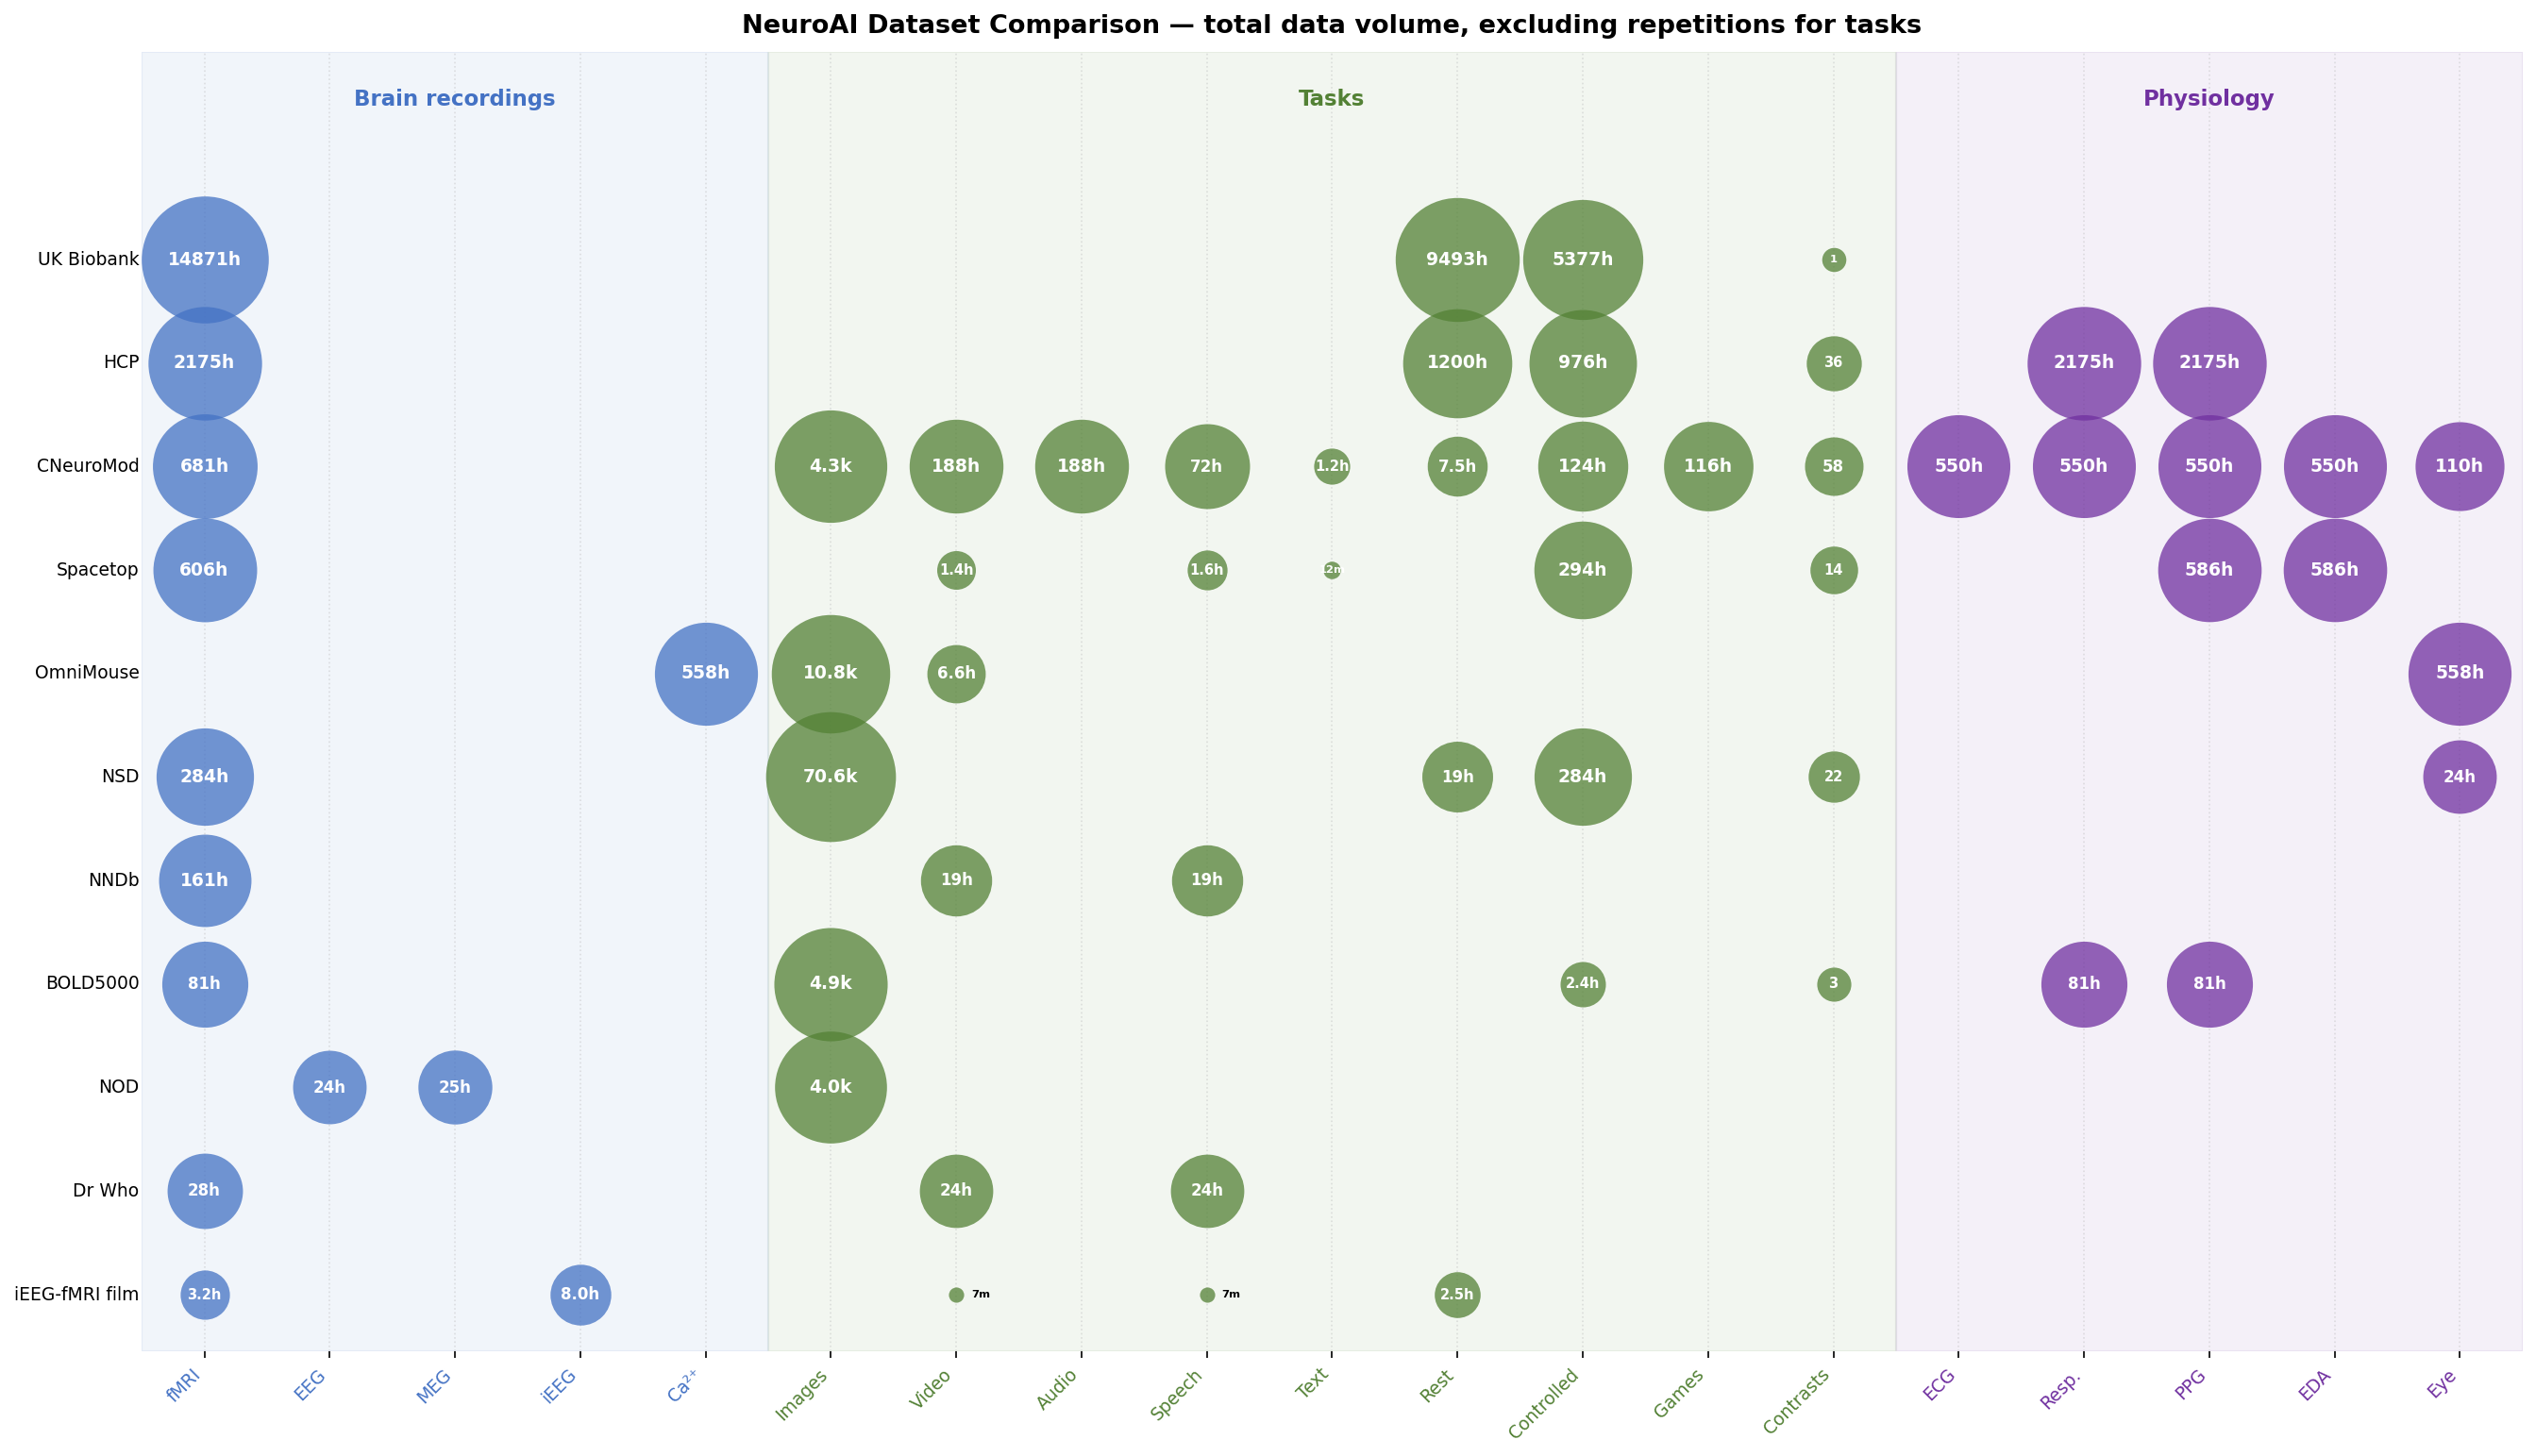
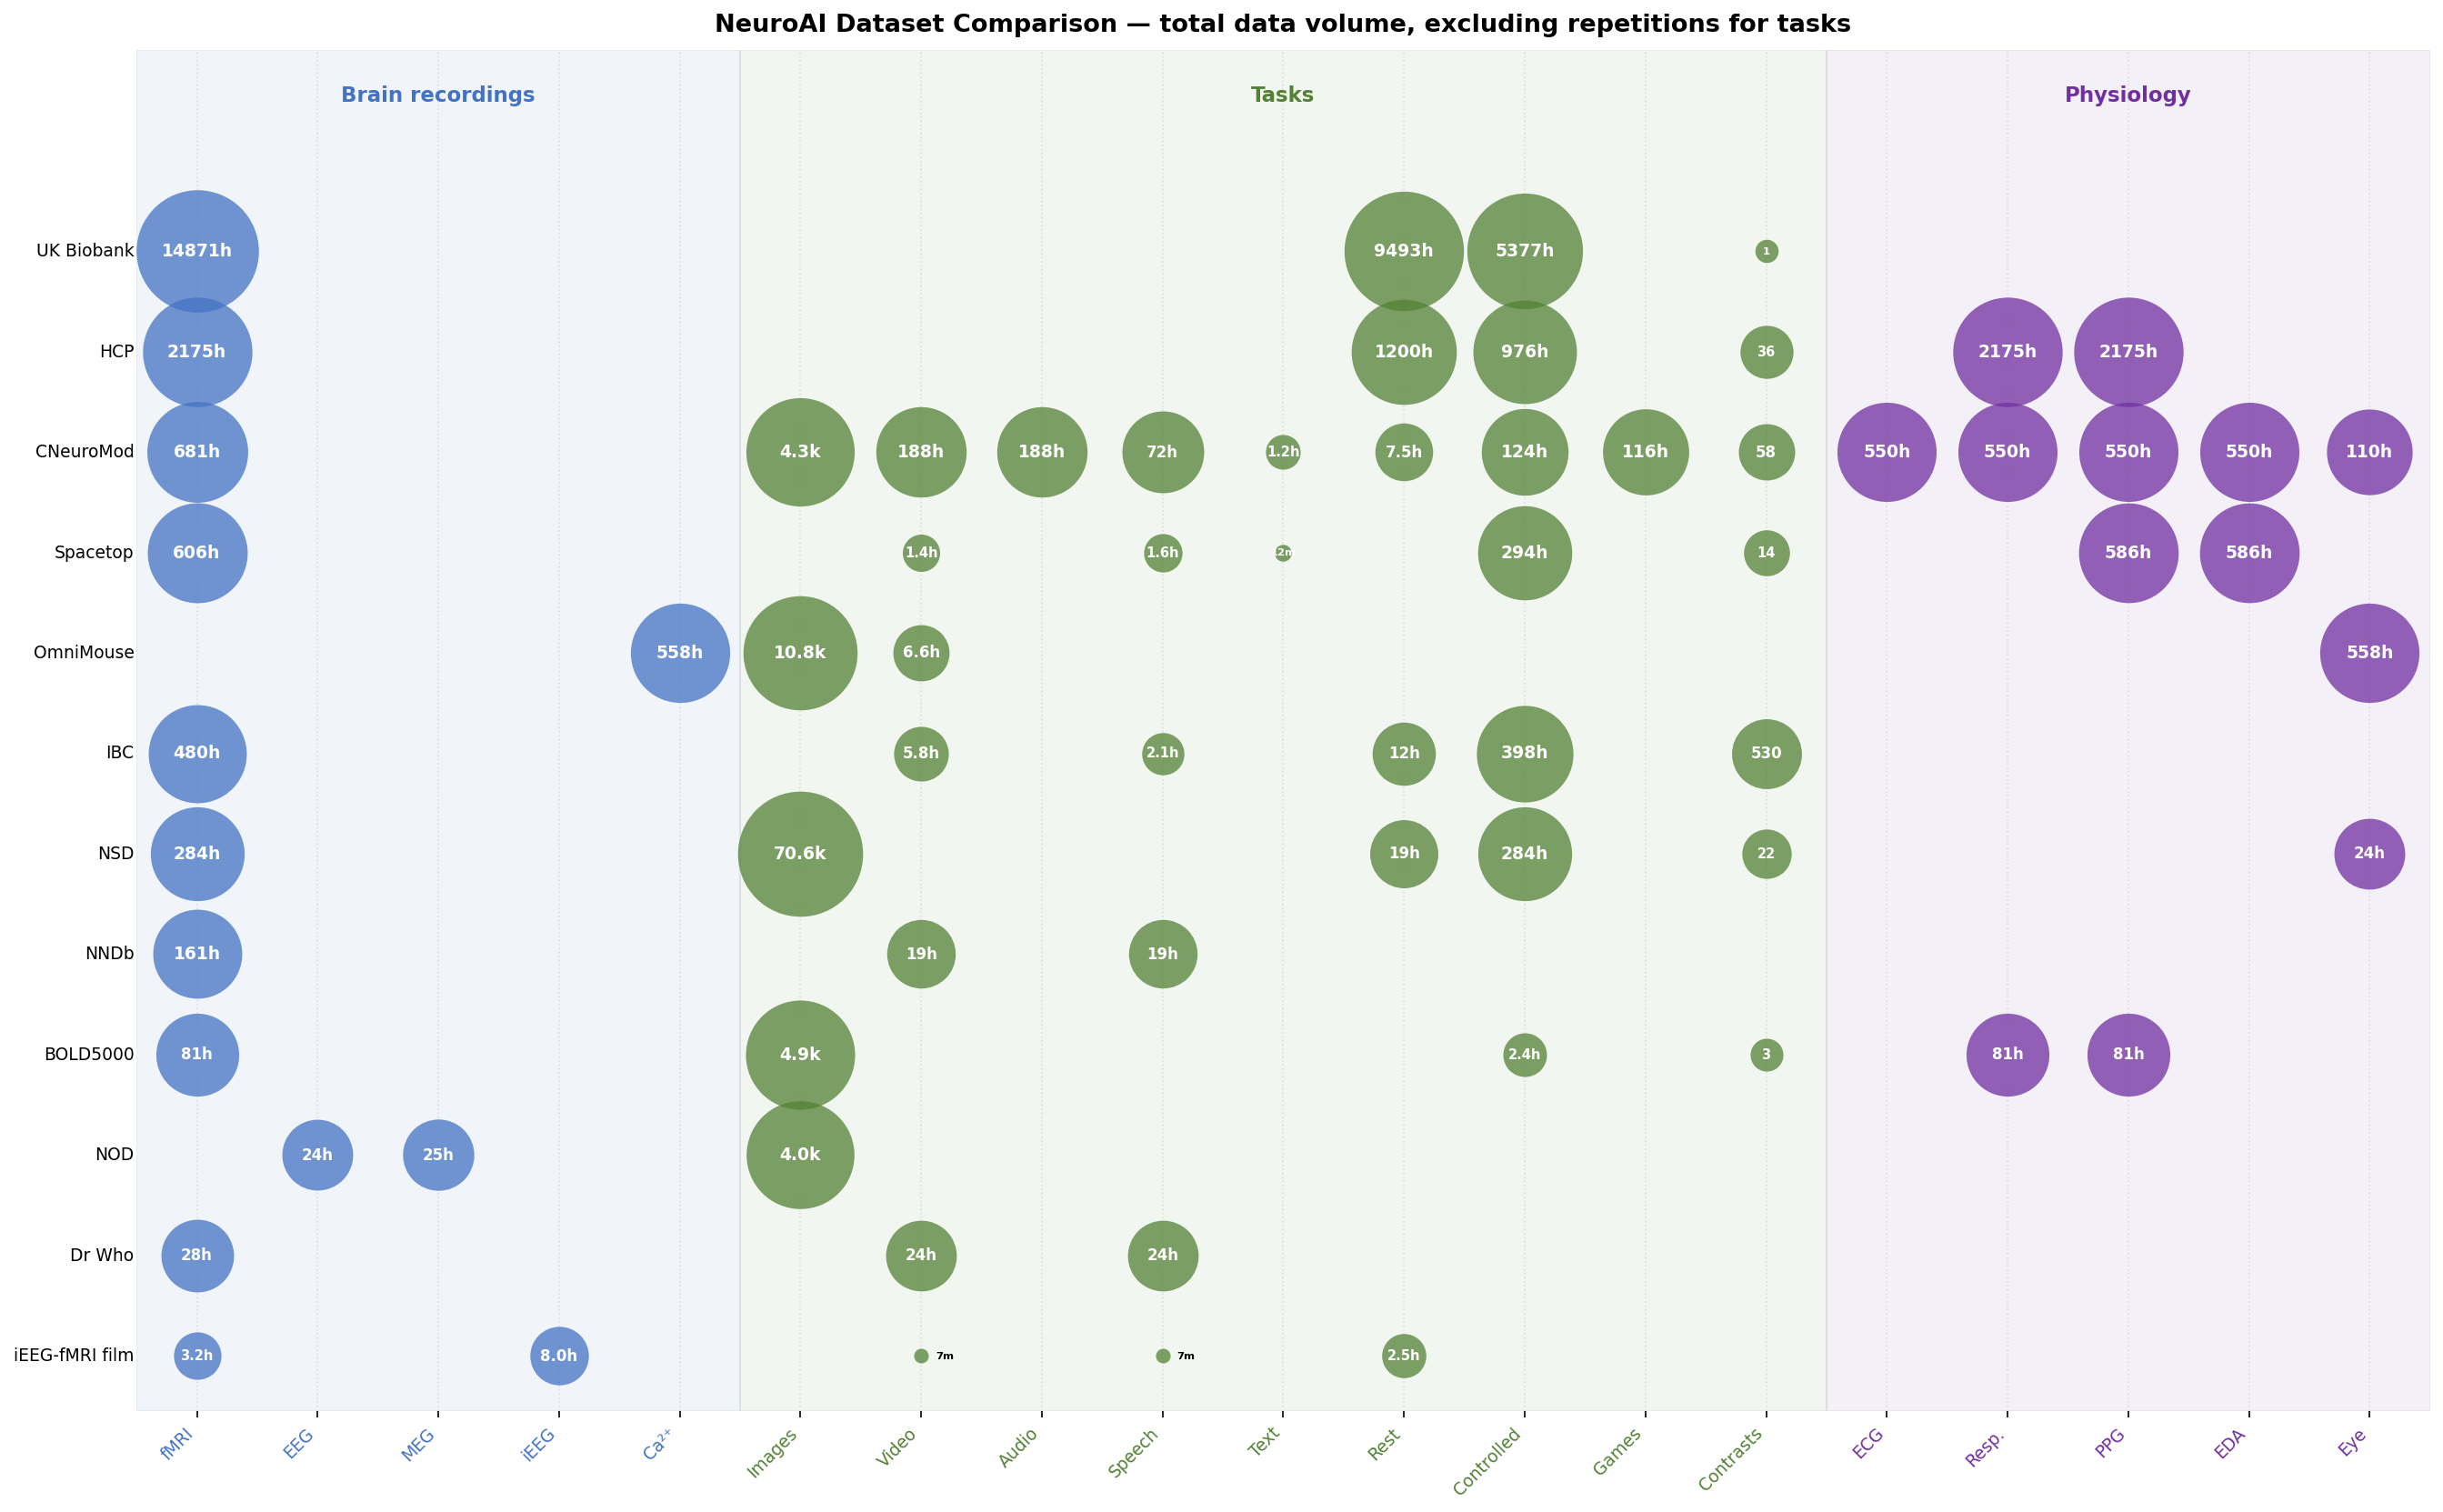
Add Individual Brain Charting (IBC) dataset entry
12 subjects, ~40 h/subject task fMRI across 5 releases; 530 contrasts from 67
tasks. Naturalistic content (Raiders, Clips, Bang, PainMovie) broken out into
video and speech_listening fields; controlled hours computed as remainder.

diff --git a/source_data/ibc.md b/source_data/ibc.md
@@ -1,0 +1,163 @@
+# Individual Brain Charting (IBC) — Data Provenance
+
+Primary reference: Ponce et al. (2026), "Individual Brain Charting: fifth release of high-resolution fMRI data for cognitive mapping," *Scientific Data* 13, 593. https://doi.org/10.1038/s41597-026-06869-1
+
+This sidecar covers the cumulative IBC dataset as of v4.0 (fifth release). Earlier releases are documented in:
+- 1st release: Pinho et al. (2018), *Scientific Data* 5, 180105. https://doi.org/10.1038/sdata.2018.105
+- 2nd release: Pinho et al. (2020), *Scientific Data* 7(1). https://doi.org/10.1038/s41597-020-00670-4
+- 3rd release: Pinho et al. (2024), *Scientific Data* 11, 590. https://doi.org/10.1038/s41597-024-03390-1
+- 4th release: deposited on EBRAINS without a standalone paper as of the 5th release
+
+---
+
+## subjects_n: 12
+
+> "The present release of the IBC dataset consists of fMRI data from twelve individuals (two females), acquired between October 2019 and November 2022." (Methods > Participants, p. 2)
+
+The original cohort comprised thirteen participants (sub-01 to sub-15, excluding sub-03 and sub-10 which were never assigned). Sub-02 withdrew after the first release; sub-01, sub-07, and sub-13 completed only subsets of the fifth-release tasks. The active participant count across all five releases is 12.
+
+---
+
+## neuroimaging.fmri
+
+### total_h: 480.0 | per_subject_h: 40.0
+
+> "extending the 1.5mm-resolution task-fMRI dataset for eleven participants to complete **up to 40 hours** of fMRI data per participant, with a target of 50 hours in the final release." (Abstract, p. 1)
+
+> "the IBC project has incorporated 67 tasks, encompassing over 340 unique conditions and 530 independent contrasts, resulting in **approximately 40 hours of fMRI data per participant**." (Data Availability, p. 16)
+
+**Computation:** 40 h × 12 subjects = 480 h total.
+
+**Caveat:** "Up to 40 hours" is the maximum; subjects with partial participation (sub-01, sub-07, sub-13, sub-02) have fewer hours. The exact per-subject mean is not reported in the 5th release paper. The 480 h total figure is therefore an upper bound; the true total is likely slightly lower.
+
+All BOLD fMRI data were acquired on a Siemens 3T Magnetom Prisma with a 64-channel head-neck coil at 1.5 mm isotropic resolution using a Multiband GE-EPI sequence (16-fold acceleration).
+
+> "The fMRI data were acquired using an MRI scanner Siemens 3T Magnetom Prisma along with a Siemens Head/Neck 64-channel coil." (MRI Equipment, p. 3)
+
+DWI (diffusion-weighted imaging) data are also available on EBRAINS but are not captured in the schema, which tracks BOLD fMRI only.
+
+---
+
+## tasks.resting_state
+
+### total_h: 12.0 | per_subject_h: 1.0
+
+From the IBC online documentation (https://individual-brain-charting.github.io/docs/mri_acquisitions.html):
+- Resting-state BOLD: TR = 760 ms, 1,120 repetitions → 851 s ≈ 14.2 min per run.
+- Resting state was collected as approximately 2 runs in dedicated sessions.
+
+The IBC documentation lists resting state as "approximately 1 hour total per subject" across all sessions. With 12 subjects: 12 h total.
+
+**Caveat:** The exact number of resting-state sessions per subject across all five releases is not specified in the 5th release paper. The value of 1 h per subject is taken from the IBC online documentation and may underestimate the true total if resting state was collected in multiple releases.
+
+---
+
+## tasks.video
+
+### total_unique: 5.83 | per_subject_unique: 5.83 | total_with_repetition: 69.96 | per_subject_with_repetition: 5.83
+
+All movie/video content is unique across runs (no within-subject repetitions) and identical across subjects (total_unique = per_subject_unique). total_with_repetition = 5.83 h × 12 subjects = 69.96 h.
+
+Four naturalistic video tasks are present across the five IBC releases (Table 5, p. 7):
+
+### Raiders (from 3rd release)
+> "Clips, WedgeClock, WedgeAnti, Ring, Raiders" (Table 5, Third release, p. 7)
+
+The Raiders task consists of 10 contiguous chapters of the 1981 film *Raiders of the Lost Ark* (2009 French-dubbed DVD edition). Chapter onset times from the IBC GitHub protocol README (https://github.com/individual-brain-charting/public_protocols/blob/master/raiders/protocol/README.md):
+
+```
+Chapter 1 - 00:00 | Chapter 2 - 12:29 | Chapter 3 - 22:22 | Chapter 4 - 32:50
+Chapter 5 - 45:27 | Chapter 6 - 57:00 | Chapter 7 - 01:08:32 | Chapter 8 - 01:20:11
+Chapter 9 - 01:31:57 | Chapter 10 - 01:41:19
+```
+
+The film's total runtime is approximately 115 min; Chapter 10 ends at ~115 min (duration ~13.7 min). **Total: ≈ 115 min = 1.92 h per subject.**
+
+### Clips (from 3rd release)
+> "Clips, WedgeClock, WedgeAnti, Ring, Raiders" (Table 5, Third release, p. 7)
+
+The Clips task was adapted from the Gallant Lab (UCB, 2012). Each run consists of 9,750 image frames presented at 15 fps → 650 s = 10.83 min per run (computed from protocol scripts at https://github.com/individual-brain-charting/public_protocols/blob/master/clips/protocol/showmovie.py, default `show_hz = 15`; index files contain 9,750 lines each).
+
+From the IBC online documentation: 12 training runs + 9 validation runs = 21 runs total.
+**Total: 21 runs × 10.83 min = 227.5 min ≈ 3.79 h per subject.**
+
+**Important:** The Clips task is a **silent** (audio-free) visual presentation. The protocol (showmovie.py) displays image frames only with no audio output. Therefore Clips is counted under `video` but NOT under `speech_listening`.
+
+**Caveat:** The website value of "10.5 min per run" differs slightly from the calculated value of 10.83 min. The run count of 21 (12 training + 9 validation) is from the IBC website documentation; the protocol README examples suggest a slightly different structure. The 3.79 h estimate may carry ±10% uncertainty.
+
+### Bang (from 2nd release)
+> "PreferenceFood, PreferencePaintings, PreferenceFaces, PreferenceHouses, MTTWE, MTTNS, HcpMotor, HcpLanguage, HcpRelational, EmotionalPain, PainMovie, Self, **Bang**" (Table 5, Second release, p. 7)
+
+From the IBC documentation: "edited version of the episode 'Bang! You're Dead' from the TV series 'Alfred Hitchcock Presents'." Duration: **7 min 55 sec = 0.13 h per subject.** This is a naturalistic movie with dialogue (speech present).
+
+### PainMovie (from 2nd release)
+> "EmotionalPain, **PainMovie**, Self, Bang" (Table 5, Second release, p. 7)
+
+From the IBC documentation: the Pixar short film "Partly Cloudy." Duration: **~6 min ≈ 0.10 h per subject.** This animated film contains some dialogue (speech present).
+
+**Summary of video durations (per subject):**
+- Raiders: 1.92 h
+- Clips: 3.79 h (silent)
+- Bang: 0.13 h
+- PainMovie: 0.10 h
+- **Total: 5.94 h → rounded to 5.83 h in YAML (using IBC website's 10.5 min/run for Clips → 3.68 h; total = 1.92 + 3.68 + 0.13 + 0.10 = 5.83 h)**
+
+---
+
+## tasks.speech_listening
+
+### total_unique: 2.15 | per_subject_unique: 2.15 | total_with_repetition: 25.8 | per_subject_with_repetition: 2.15
+
+Speech is present in three of the four naturalistic video tasks:
+- Raiders: 1.92 h (full movie with extensive French-dubbed dialogue)
+- Bang: 0.13 h (TV episode with dialogue)
+- PainMovie: 0.10 h (Pixar short with some dialogue)
+- Clips: excluded (silent visual-only stimuli)
+
+**Total unique speech content = 1.92 + 0.13 + 0.10 = 2.15 h per subject.** Since all subjects watch the same films, total_unique = per_subject_unique = 2.15 h. With 12 subjects: total_with_repetition = 25.8 h.
+
+**Caveat:** The 4th release includes tasks named "Lec1" and "Lec2" (Table 5, p. 7), which may represent naturalistic lecture audio (passive listening to academic lectures, a paradigm used in several cognitive neuroscience studies). If so, they would add additional speech_listening hours. This could not be confirmed from available documentation; the IBC protocols repository does not include a separate directory for Lec1/Lec2, suggesting they may be part of another battery. **These potential additional hours are NOT included here and should be verified against the 4th release data/paper.**
+
+---
+
+## tasks.controlled
+
+### total_h: 398.0 | per_subject_h: 33.2
+
+Computed as a remainder:
+- Total fMRI per subject: 40.0 h
+- Resting state: −1.0 h
+- Naturalistic video: −5.83 h
+- **Controlled: 40.0 − 1.0 − 5.83 = 33.17 h ≈ 33.2 h per subject; 33.2 × 12 = 398 h total.**
+
+The IBC dataset includes 67 tasks across five releases (Table 5, p. 7), the vast majority being controlled experimental paradigms with fixed trial or block structures. These include:
+- ARCHI battery (Standard, Spatial, Social, Emotional)
+- HCP battery (Emotion, Gambling, Motor, Language, Relational, Social, WM)
+- CamCAN battery (EmoMem, EmoReco, StopNogo, Catell, FingerTapping, VSTMC)
+- FBIRN battery (BreathHolding, Checkerboard, FingerTap, ItemRecognition)
+- 5th-release tasks: BiologicalMotion, MathLanguage, SpatialNavigation, EmoMem, EmoReco, Catell, FingerTapping, VSTMC, StopNogo, NARPS, FaceBody, Scene, VisualSearch
+- Plus retinotopic mapping (WedgeClock, WedgeAnti, Ring), preference tasks, mental time travel, discourse tasks, and others (see Table 5 for full list)
+
+**Caveat:** The controlled hours include a small contribution (~2 min per session) from spin-echo EPI field maps acquired alongside task runs (Table 3, p. 5). With approximately 40 sessions across all releases, this amounts to ~1.4 h of non-task BOLD acquisition. This is not subtracted above (negligible relative to uncertainty in the 40 h total).
+
+---
+
+## tasks.contrasts
+
+### total: 530 | per_subject: 530
+
+> "the IBC project has incorporated 67 tasks, encompassing over 340 unique conditions and **530 independent contrasts**, resulting in approximately 40 hours of fMRI data per participant." (Data Availability, p. 16)
+
+Since IBC is a within-subject, dense cognitive mapping dataset, all 530 contrasts are computed per subject. GLM-derived contrast maps (z-score maps) are available for each subject and each contrast.
+
+> "Up to this release, the dataset includes 67 tasks, comprising 530 contrasts described on the basis of 188 cognitive concepts extracted from the Cognitive Atlas." (Background & Summary, p. 2)
+
+The 5th release alone adds 18 new tasks with 180 contrasts (p. 2: "18 tasks with 180 contrasts were added, and 54 cognitive components were included in the description of the ensuing contrasts").
+
+---
+
+## Fields not populated
+
+- **physiology**: No dedicated physiological recording modalities (ECG, respiration, EDA, plethysmograph) are reported in the 5th release paper. The preprocessing pipeline corrects for physiological noise, but it is unclear whether raw physiological signals were recorded. **Needs verification against the EBRAINS data repository.**
+- **eye_tracking**: No eye-tracking data reported.
+- **tasks.images**: Many controlled tasks use image stimuli, but image counts are not tracked as a primary metric in this dataset (the focus is on contrast maps and cognitive coverage, not image inventory).